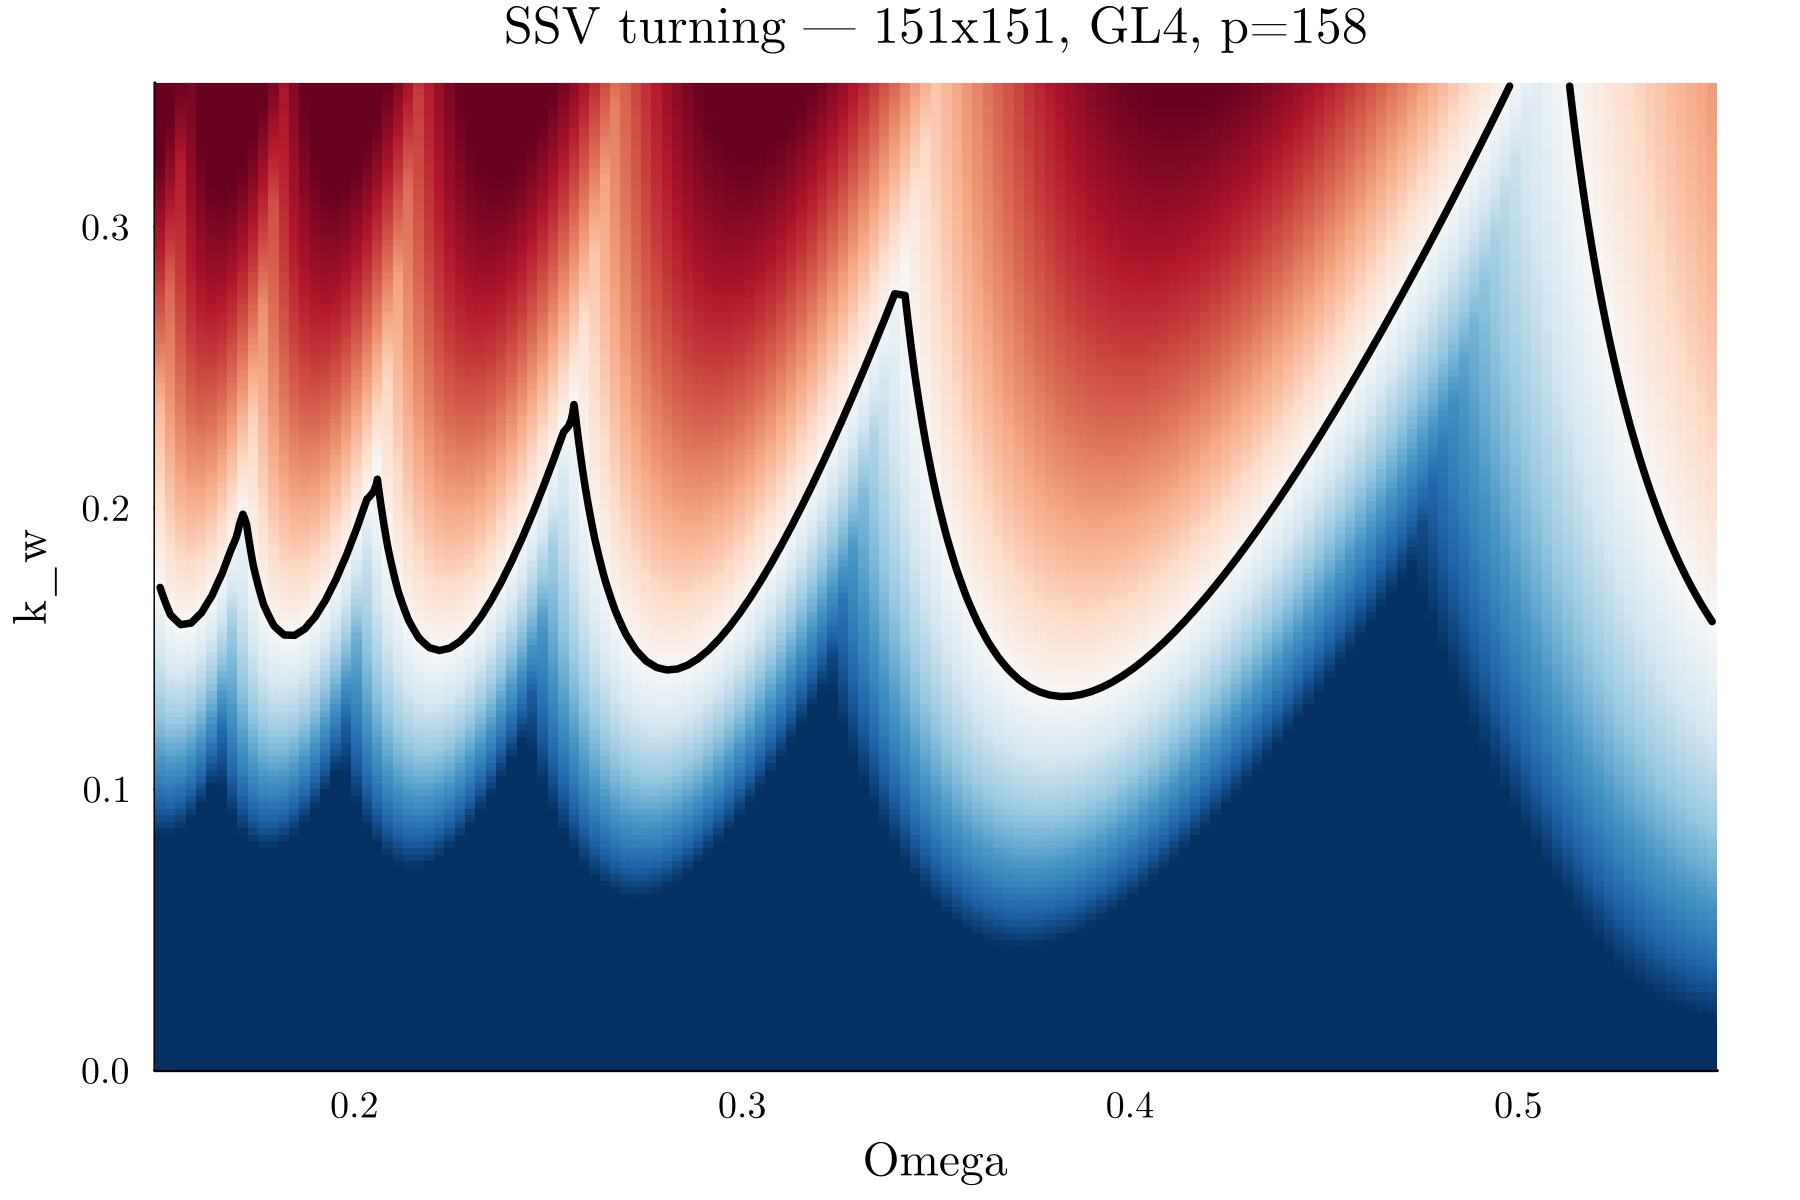
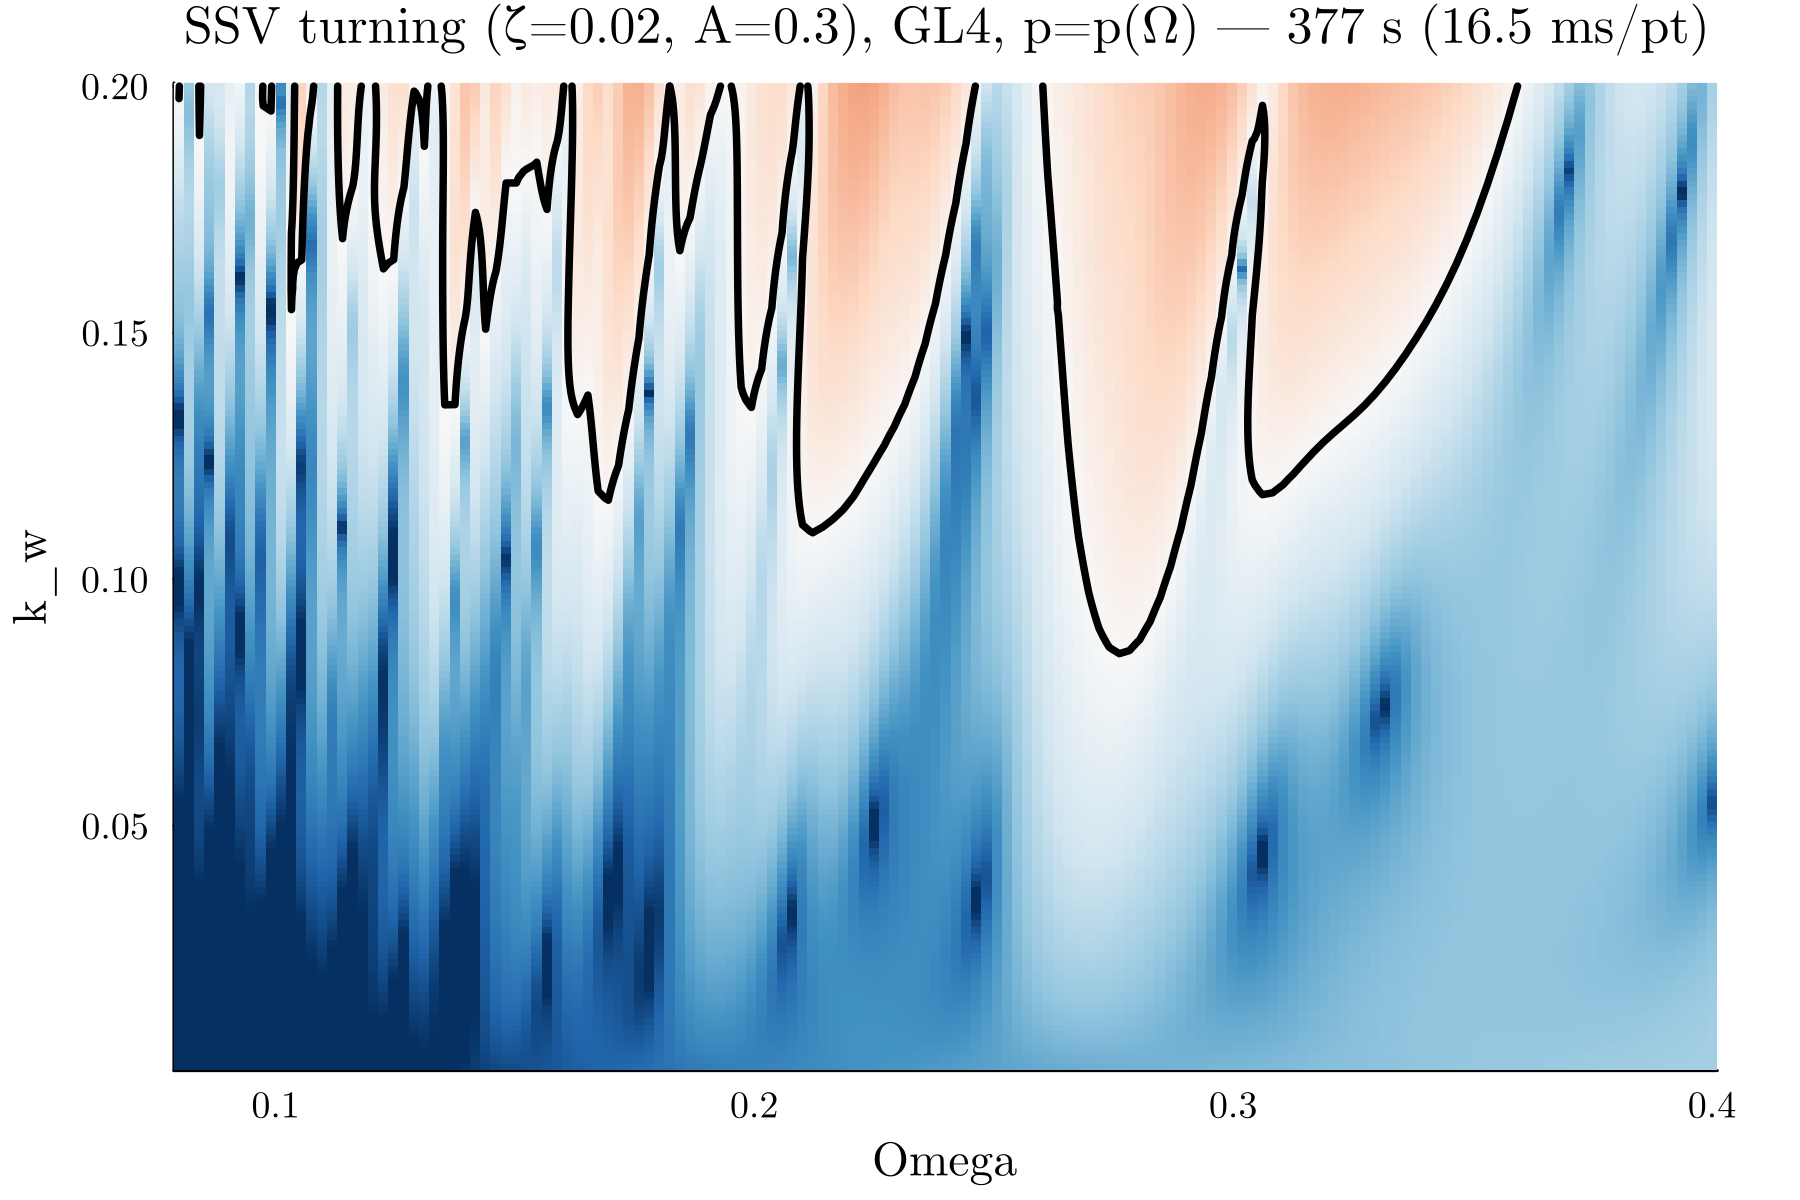
Intricate SSV chart (lobe splitting + islands), CPU time in chart titles
zeta=0.02, A_SSV=0.3, adaptive p(Omega) per the sampling recipe:
22801 points in 377 s (16.5 ms/point) single-threaded.

diff --git a/paper/figures/chart_times.tex b/paper/figures/chart_times.tex
@@ -1,6 +1,6 @@
 \newcommand{\chartTimeMathieu}{122}
 \newcommand{\chartPtsMathieu}{90601}
 \newcommand{\chartMsMathieu}{1.3}
-\newcommand{\chartTimeTurning}{689}
+\newcommand{\chartTimeTurning}{377}
 \newcommand{\chartPtsTurning}{22801}
-\newcommand{\chartMsTurning}{30.2}
+\newcommand{\chartMsTurning}{16.5}